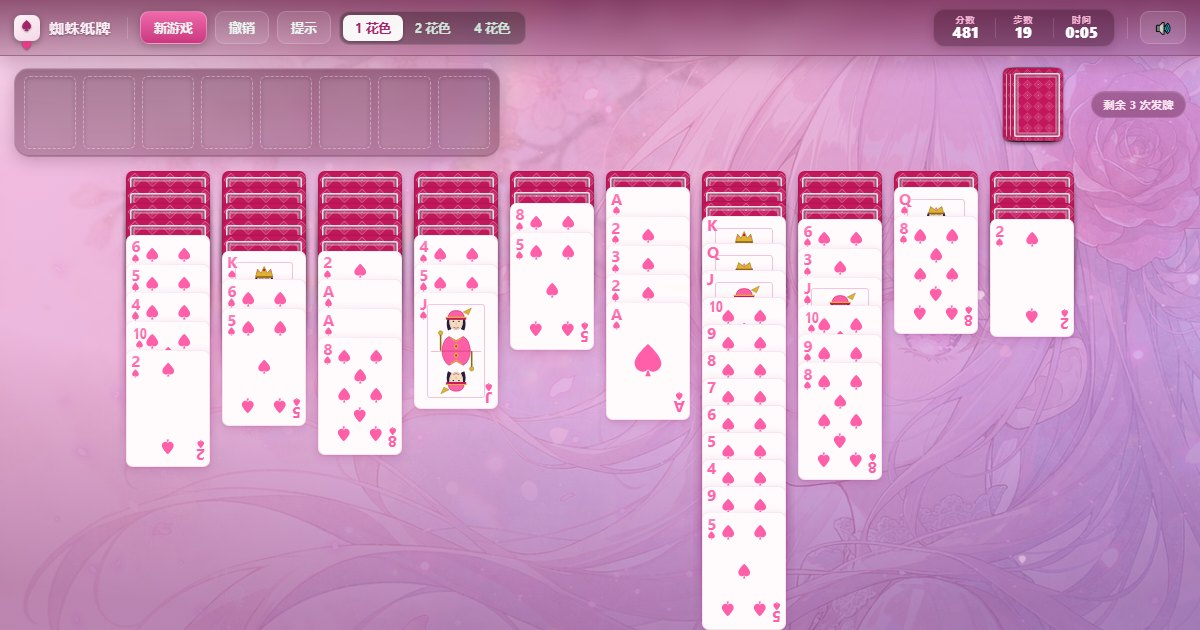
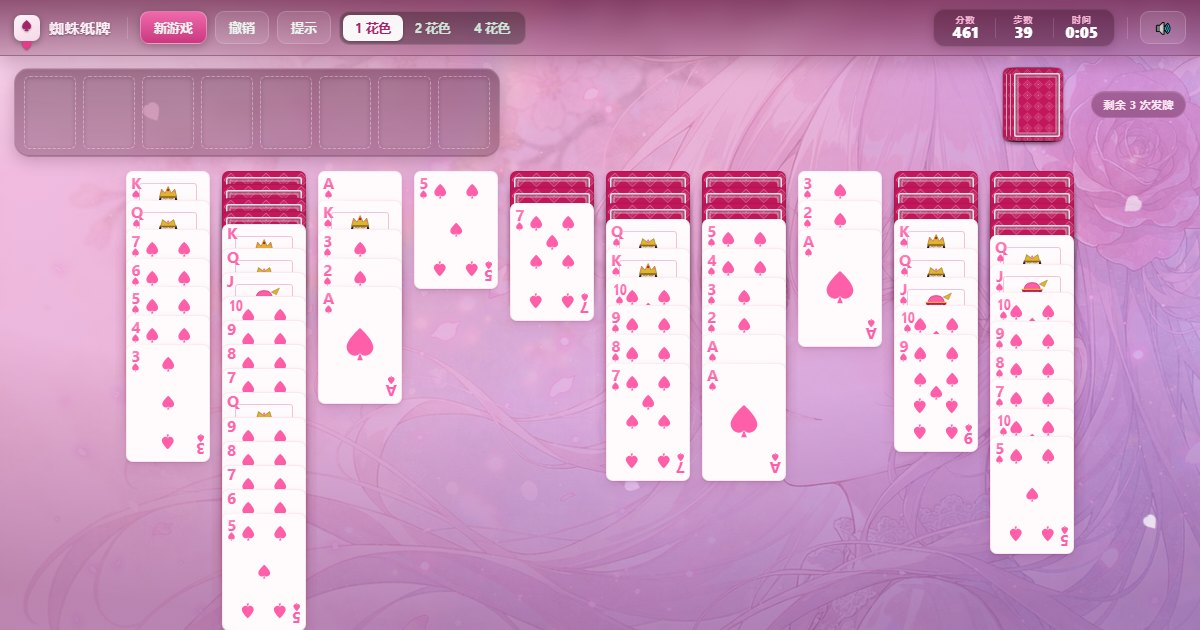
perf: 动画改用合成属性 + iOS 曲线，卡牌不再过渡 top；阴影改三层渐进

diff --git a/index.html b/index.html
@@ -136,9 +136,15 @@
   button.btn:active { transform: translateY(1px); }
   button.btn[disabled] { opacity: .34; cursor: default; transform: none; }
   /* 按钮按下有回弹手感 */
-  button.btn { transition: transform .13s cubic-bezier(.3,1.4,.5,1), background .18s, box-shadow .18s, opacity .18s; }
+  /* iOS 手感：按下要「立刻」有反馈（60ms），抬起再平滑回弹（200ms 长尾） */
+  button.btn {
+    transition:
+      transform .2s cubic-bezier(.32,.72,0,1),
+      background .18s ease, border-color .18s ease,
+      box-shadow .18s ease, opacity .18s ease;
+  }
   button.btn:hover:not([disabled]) { transform: translateY(-1.5px); }
-  button.btn:active:not([disabled]) { transform: translateY(0) scale(.965); }
+  button.btn:active:not([disabled]) { transform: scale(.955); transition-duration: .06s, .18s, .18s, .18s, .18s; }
 
   /* 可放置的列：呼吸光提示 */
   .col.drop-ok { animation: dropPulse 1.05s ease-in-out infinite; }
@@ -331,13 +337,16 @@
     border-radius: calc(var(--cw) * .08);
     background: #fffafc;            /* 极淡粉白 */
     overflow: hidden;
-    transition: top .17s cubic-bezier(.3,.7,.35,1), box-shadow .15s;
-    /* 柔和投影 + 内描边（外描边和 1px 硬阴影会在牌堆叠时形成一排灰线） */
+    /* 位置变化一律交给 transform 飞行动画（GPU 合成），这里绝不过渡 top：
+       top 属于布局属性，过渡它会每帧触发布局重排，是掉帧的根源。 */
+    transition: box-shadow .2s ease, filter .2s ease;
+    /* 三层渐进阴影：近处紧、中距实、远处散，比单层重阴影自然得多 */
     box-shadow:
-      0 3px 10px rgba(150,40,110,.18),
-      0 1px 2px rgba(150,40,110,.10),
-      inset 0 0 0 1px rgba(214,110,175,.16);
-    will-change: top;
+      0 1px 1px rgba(122,26,80,.10),
+      0 2px 5px rgba(122,26,80,.09),
+      0 6px 14px rgba(122,26,80,.08),
+      inset 0 0 0 1px rgba(214,110,175,.14);
+    will-change: transform;
     /* 关键：把每张牌做成独立的层叠上下文。
        否则牌内部伪元素的 z-index 会逃到整张牌桌上，把背面牌的暗边画到上面的正面牌脸上 */
     isolation: isolate;
@@ -386,7 +395,7 @@
   .card.deal {
     transition: none;
     z-index: 80;
-    animation: cardDeal .46s cubic-bezier(.18,.92,.28,1) both;
+    animation: cardDeal .44s cubic-bezier(.22,1.02,.36,1) both;   /* iOS 入场：轻回弹 */
   }
   @keyframes cardDeal {
     0%   { transform: translate3d(var(--dx, 0px), var(--dy, -40px), 0) rotate(-12deg) scale(.84); opacity: 0; }
@@ -399,7 +408,8 @@
   .card.fly {
     transition: none;
     z-index: 80;
-    animation: cardFly .34s cubic-bezier(.2,.88,.3,1) both;
+    /* iOS 13+ 模态面板曲线：起步快、尾巴长，是「丝滑」的来源 */
+    animation: cardFly .4s cubic-bezier(.32,.72,0,1) both;
   }
   @keyframes cardFly {
     0%   { transform: translate3d(var(--dx, 0px), var(--dy, 0px), 0) scale(1.05); }
@@ -411,7 +421,7 @@
     transition: none;
     z-index: 90;
     pointer-events: none;
-    animation: cardCollect .38s cubic-bezier(.3,.85,.35,1) both;
+    animation: cardCollect .42s cubic-bezier(.32,.72,0,1) both;
   }
   @keyframes cardCollect {
     0%   { transform: translate3d(0, 0, 0) scale(1); opacity: 1; }
@@ -419,7 +429,7 @@
   }
 
   /* 翻牌：轻微下压 + 回弹 */
-  .card.flip-in { animation: cardFlipIn .26s cubic-bezier(.3,1.4,.5,1) both; }
+  .card.flip-in { animation: cardFlipIn .28s cubic-bezier(.34,1.5,.64,1) both; }
   @keyframes cardFlipIn {
     0%   { transform: scale(.94) rotateY(-16deg); }
     100% { transform: scale(1) rotateY(0deg); }
@@ -550,7 +560,7 @@
     position: fixed; z-index: 9500; pointer-events: none;
     font-weight: 900; font-size: 17px; color: #ffe14d;
     text-shadow: 0 2px 8px rgba(0,0,0,.7);
-    animation: floatUp 1s cubic-bezier(.2,.9,.3,1) forwards;
+    animation: floatUp 1.1s cubic-bezier(.22,1.05,.36,1) forwards;
   }
   @keyframes floatUp {
     0% { opacity: 0; transform: translate(-50%,0) scale(.7); }
@@ -565,7 +575,8 @@
     border: 1px solid rgba(255,255,255,.18);
     padding: 9px 18px; border-radius: 999px; font-size: 13.5px; font-weight: 600;
     box-shadow: 0 8px 26px rgba(0,0,0,.45);
-    opacity: 0; pointer-events: none; transition: opacity .25s, transform .25s;
+    opacity: 0; pointer-events: none;
+    transition: opacity .26s ease, transform .36s cubic-bezier(.32,.72,0,1);
     z-index: 9600; white-space: nowrap; max-width: 92vw; overflow: hidden; text-overflow: ellipsis;
   }
   .toast.show { opacity: 1; transform: translateX(-50%) translateY(0); }
@@ -586,9 +597,11 @@
     border-radius: 20px; padding: 30px 28px 24px;
     text-align: center;
     box-shadow: 0 26px 70px rgba(0,0,0,.6);
-    transform: scale(.9); transition: transform .4s cubic-bezier(.2,1.4,.4,1);
+    /* iOS 面板手感：从下方微升 + 轻微放大，配长尾减速 */
+    transform: scale(.92) translateY(10px);
+    transition: transform .48s cubic-bezier(.32,.72,0,1);
   }
-  .overlay.show .panel { transform: scale(1); }
+  .overlay.show .panel { transform: scale(1) translateY(0); }
   /* 死局：面板换成柔和的紫，头像降一点饱和，语气软下来 */
   .overlay.lose .panel { background: linear-gradient(170deg, #8a63c8, #4a2f7a); }
   .overlay.lose .win-avatar {
@@ -604,7 +617,7 @@
     border-radius: 50%;
     background: linear-gradient(140deg, #ffe3f1, #f58cc6, #c9a8ff);
     box-shadow: 0 10px 28px rgba(190,60,140,.45), 0 0 0 6px rgba(255,255,255,.14);
-    animation: avatarPop .65s cubic-bezier(.2,1.6,.4,1) both;
+    animation: avatarPop .62s cubic-bezier(.34,1.5,.64,1) both;
   }
   .win-avatar img {
     width: 100%; height: 100%; border-radius: 50%;
@@ -1883,7 +1896,10 @@ function tryAutoToEmpty(emptyCol) {
       if (!col[i].up) continue;
       if (!isRun(col, i)) continue;
       if (col[i].r === 13 && i > 0) {   // 整段 K 开头的搬到空列
+        var tIds = S.cols[c].slice(i).map(function (x) { return x.id; });
+        var tBefore = snapshotCards(tIds);
         moveRun(c, i, emptyCol);
+        flyCardsById(tIds, tBefore, "fly");
         return;
       }
     }
